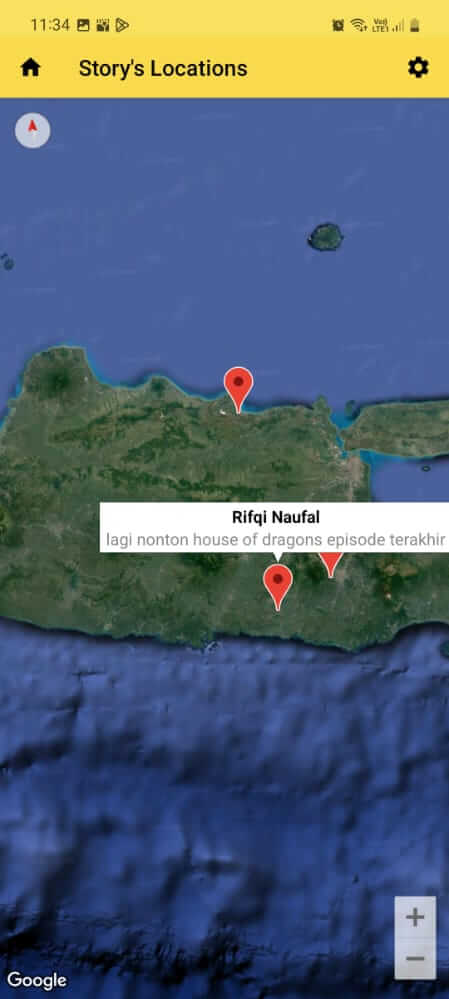
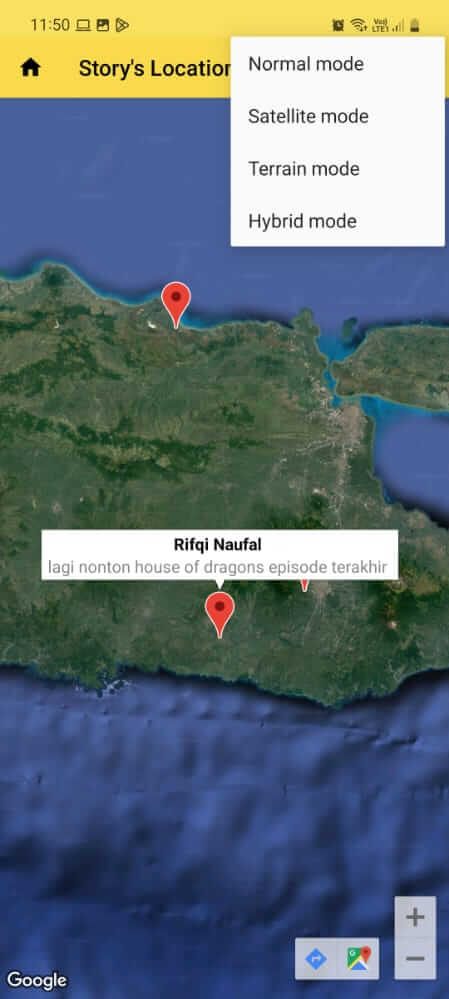
Fix README.md

diff --git a/README.md b/README.md
@@ -5,7 +5,7 @@
 InstaGeram is an instagram parody app. It has similar basic features with Instagram. This app was created during my free time, feel free to explore an fork the repo 😉
 
 #### Try the app (download and install)
-
+https://github.com/toharifqi/InstaGeram/raw/master/build%20apks/InstaGeram.apk
 
 #### Stuffs I implemented in this app
 - Clean architecture (without usecases this time)
@@ -23,7 +23,7 @@ InstaGeram is an instagram parody app. It has similar basic features with Instag
 - Post a story that contains a picture (can be taken from your camera or gallery).<br>
   <img src="/screenshots/post_a_story.jpg" width="25%">    <img src="/screenshots/take_picture.jpg" width="25%"><br>
 - Post a story based on current location and mark the story's location on google map.<br>
-  <img src="/screenshots/map.jpg" width="25%">    <img src="/screenshots/map2.jpg" width="25%">    <img src="/screenshots/map.jpg" width="25%">    <img src="/screenshots/map4.jpg" width="25%"><br>
+  <img src="/screenshots/map.jpg" width="25%">    <img src="/screenshots/map2.jpg" width="25%">    <img src="/screenshots/map3.jpg" width="25%">    <img src="/screenshots/map4.jpg" width="25%"><br>
 
 #### Notes & Quotes (that I repeatedly feed to my uncomplete & unperfect brain)
 
